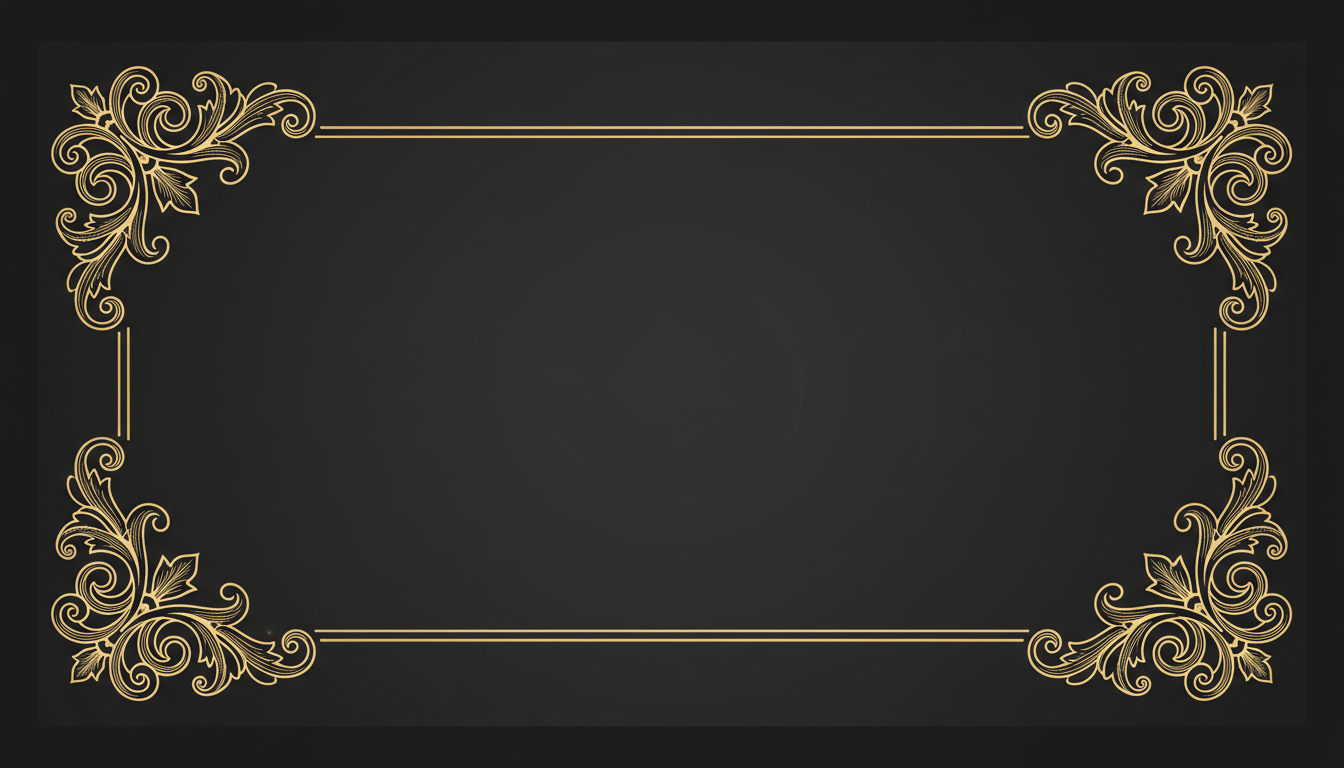
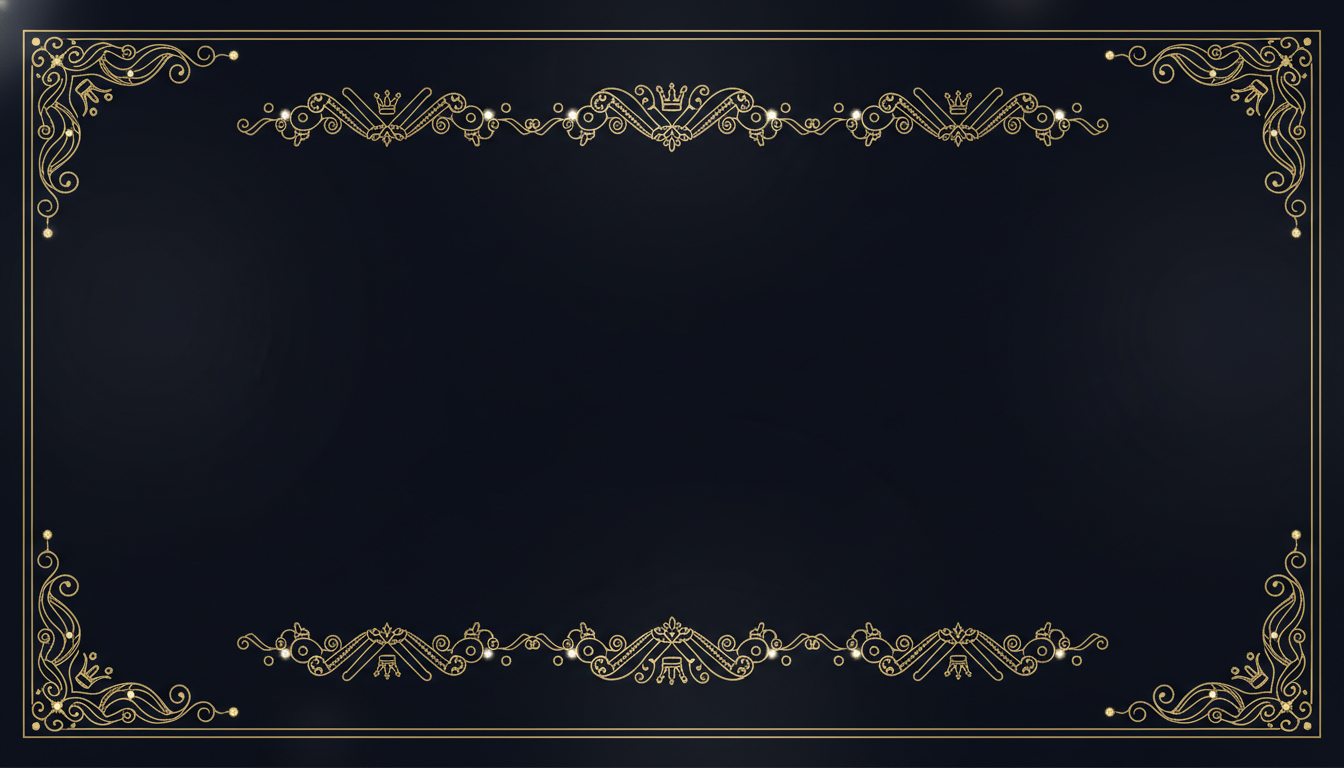
Remove LINE integration and update brand assets
Remove LINE OA page, floating button, notification lib, and all references.
Also includes updated brand images and payout rate/schedule adjustments.

diff --git a/src/components/Header.tsx b/src/components/Header.tsx
@@ -2,12 +2,6 @@ import Link from 'next/link';
 import Image from 'next/image';
 import { getBrandConfig } from '@/lib/theme/config';
 
-const LineSvg = () => (
-  <svg width="16" height="16" viewBox="0 0 24 24" fill="currentColor">
-    <path d="M19.365 9.863c.349 0 .63.285.63.631 0 .345-.281.63-.63.63H17.61v1.125h1.755c.349 0 .63.283.63.63 0 .344-.281.629-.63.629h-2.386c-.345 0-.627-.285-.627-.629V8.108c0-.345.282-.63.63-.63h2.386c.346 0 .627.285.627.63 0 .349-.281.63-.63.63H17.61v1.125h1.755zm-3.855 3.016c0 .27-.174.51-.432.596-.064.021-.133.031-.199.031-.211 0-.391-.09-.51-.25l-2.443-3.317v2.94c0 .344-.279.629-.631.629-.346 0-.626-.285-.626-.629V8.108c0-.27.173-.51.43-.595.06-.023.136-.033.194-.033.195 0 .375.104.495.254l2.462 3.33V8.108c0-.345.282-.63.63-.63.345 0 .63.285.63.63v4.771zm-5.741 0c0 .344-.282.629-.631.629-.345 0-.627-.285-.627-.629V8.108c0-.345.282-.63.63-.63.346 0 .628.285.628.63v4.771zm-2.466.629H4.917c-.345 0-.63-.285-.63-.629V8.108c0-.345.285-.63.63-.63.348 0 .63.285.63.63v4.141h1.756c.348 0 .629.283.629.63 0 .344-.282.629-.629.629M24 10.314C24 4.943 18.615.572 12 .572S0 4.943 0 10.314c0 4.811 4.27 8.842 10.035 9.608.391.082.923.258 1.058.59.12.301.079.766.038 1.08l-.164 1.02c-.045.301-.24 1.186 1.049.645 1.291-.539 6.916-4.078 9.436-6.975C23.176 14.393 24 12.458 24 10.314" />
-  </svg>
-);
-
 export default function Header() {
   const config = getBrandConfig();
 
@@ -48,10 +42,6 @@ export default function Header() {
             </Link>
             <Link href="/about" className="text-[var(--text-secondary)] text-sm font-medium px-4 py-2 rounded-lg transition-all hover:text-[var(--brand-primary)] hover:bg-[var(--brand-primary)]/[0.08]">
               เกี่ยวกับ
-            </Link>
-            <Link href="/line" className="bg-[#06c755] text-white font-semibold px-4 py-2 rounded-lg flex items-center gap-1.5 transition-all hover:bg-[#05b34a]">
-              <LineSvg />
-              LINE
             </Link>
           </nav>
         </div>

diff --git a/src/config/payout-rates.ts b/src/config/payout-rates.ts
@@ -1,10 +1,14 @@
 import type { PayoutRate } from '@/types';
 
 export const payoutRates: PayoutRate[] = [
-  { type: '3 ตัวบน', rate: 850, description: 'ทายเลข 3 ตัวตรงตามลำดับ' },
-  { type: '3 ตัวโต๊ด', rate: 120, description: 'ทายเลข 3 ตัวไม่ต้องเรียงลำดับ' },
-  { type: '2 ตัวบน', rate: 92, description: 'ทายเลข 2 ตัวท้าย (บน)' },
-  { type: '2 ตัวล่าง', rate: 92, description: 'ทายเลข 2 ตัวท้าย (ล่าง)' },
+  { type: '3 ตัวบน', rate: 900, description: 'ทายเลข 3 ตัวตรงตามลำดับ' },
+  { type: '3 ตัวโต๊ด', rate: 150, description: 'ทายเลข 3 ตัวไม่ต้องเรียงลำดับ' },
+  { type: '2 ตัวบน', rate: 98, description: 'ทายเลข 2 ตัวท้าย (บน)' },
+  { type: '2 ตัวล่าง', rate: 98, description: 'ทายเลข 2 ตัวท้าย (ล่าง)' },
   { type: 'วิ่งบน', rate: 3.2, description: 'ทายเลขวิ่ง 1 ตัว (บน)' },
   { type: 'วิ่งล่าง', rate: 4.2, description: 'ทายเลขวิ่ง 1 ตัว (ล่าง)' },
+];
+
+export const ignoredThreeDigitNumbers: string[] = [
+  '000', '111', '222', '333', '444', '555', '666', '777', '888', '999',
 ];

diff --git a/src/app/api/webhook/notify/route.ts b/src/app/api/webhook/notify/route.ts
@@ -1,8 +1,6 @@
 import { NextResponse } from 'next/server';
 import type { NextRequest } from 'next/server';
 import { dispatchWebhooks } from '@/lib/api/webhook';
-import { broadcastMessage, buildResultNotification } from '@/lib/line/notify';
-import { getBrandConfig } from '@/lib/theme/config';
 
 export async function POST(request: NextRequest) {
   // Verify internal secret
@@ -18,8 +16,6 @@ export async function POST(request: NextRequest) {
     return NextResponse.json({ error: 'Missing required fields' }, { status: 400 });
   }
 
-  const config = getBrandConfig();
-
   // Dispatch agent webhooks
   await dispatchWebhooks({
     event: 'result.published',
@@ -32,16 +28,6 @@ export async function POST(request: NextRequest) {
     round_date,
     timestamp: new Date().toISOString(),
   });
-
-  // Send LINE notification
-  const lineMessage = buildResultNotification(
-    market_label_th,
-    flag_emoji,
-    winning_number,
-    config.siteNameTh,
-    winning_number_2d ?? null
-  );
-  await broadcastMessage([lineMessage]);
 
   return NextResponse.json({ success: true });
 }

diff --git a/src/app/about/page.tsx b/src/app/about/page.tsx
@@ -62,7 +62,7 @@ export default function AboutPage() {
                   {market.labelTh}
                 </div>
                 <div className="text-[11px] text-[var(--text-muted)]">
-                  ปิดรับ: {market.closeTime} น.
+                  ปิดรับ: {market.closeTime} น. · ออกผล: {market.announceTime} น.
                 </div>
               </div>
               <span className="text-xs text-[var(--text-muted)] font-mono">
@@ -81,12 +81,6 @@ export default function AboutPage() {
         <div className="text-sm text-[var(--text-secondary)] space-y-2">
           <p>
             &#x1F310; เว็บไซต์: {config.domain}
-          </p>
-          <p>
-            ติดตามข่าวสารและผลหวยผ่านทาง LINE Official Account ได้ที่หน้า{' '}
-            <a href="/line" className="text-[var(--brand-primary)] hover:text-[var(--brand-light)] transition-colors">
-              LINE
-            </a>
           </p>
         </div>
       </div>

diff --git a/src/app/api/v1/schedule/route.ts b/src/app/api/v1/schedule/route.ts
@@ -16,7 +16,9 @@ export const GET = withApiAuth(async (request: NextRequest, context) => {
         market: market.code,
         marketLabelTh: market.labelTh,
         flagEmoji: market.flagEmoji,
+        openTime: `${today}T${market.openTime}:00+07:00`,
         closeTime: `${today}T${market.closeTime}:00+07:00`,
+        announceTime: `${today}T${market.announceTime}:00+07:00`,
         order: market.order,
       });
     }
@@ -29,7 +31,9 @@ export const GET = withApiAuth(async (request: NextRequest, context) => {
         market: market.code,
         marketLabelTh: market.labelTh,
         flagEmoji: market.flagEmoji,
+        openTime: `${today}T${market.openTime}:00+07:00`,
         closeTime: `${today}T${market.closeTime}:00+07:00`,
+        announceTime: `${today}T${market.announceTime}:00+07:00`,
         order: market.order,
       });
     }

diff --git a/src/lib/theme/config.ts b/src/lib/theme/config.ts
@@ -10,7 +10,6 @@ export function getBrandConfig(): BrandConfig {
       siteName: process.env.NEXT_PUBLIC_SITE_NAME || 'Stock Platinums',
       siteNameTh: process.env.NEXT_PUBLIC_SITE_NAME_TH || 'หวยหุ้น แพลทินัม',
       domain: process.env.NEXT_PUBLIC_DOMAIN || 'stockplatinums.com',
-      lineUrl: process.env.NEXT_PUBLIC_LINE_URL || '#',
       logoText: 'PLT',
     };
   }
@@ -21,7 +20,6 @@ export function getBrandConfig(): BrandConfig {
     siteName: process.env.NEXT_PUBLIC_SITE_NAME || 'Stock VVIP',
     siteNameTh: process.env.NEXT_PUBLIC_SITE_NAME_TH || 'หวยหุ้น VVIP',
     domain: process.env.NEXT_PUBLIC_DOMAIN || 'stockvvip.com',
-    lineUrl: process.env.NEXT_PUBLIC_LINE_URL || '#',
     logoText: 'VVIP',
   };
 }

diff --git a/src/app/layout.tsx b/src/app/layout.tsx
@@ -4,7 +4,6 @@ import { getBrandConfig } from '@/lib/theme/config';
 import { getThemeCSSString } from '@/lib/theme/colors';
 import Header from '@/components/Header';
 import Footer from '@/components/Footer';
-import LineFloatButton from '@/components/LineFloatButton';
 import './globals.css';
 
 const prompt = Prompt({
@@ -115,7 +114,6 @@ export default function RootLayout({
         <Header />
         <main className="container-main">{children}</main>
         <Footer />
-        <LineFloatButton />
       </body>
     </html>
   );

diff --git a/src/types/index.ts b/src/types/index.ts
@@ -42,7 +42,6 @@ export interface BrandConfig {
   siteName: string;
   siteNameTh: string;
   domain: string;
-  lineUrl: string;
   logoText: string;
 }
 
